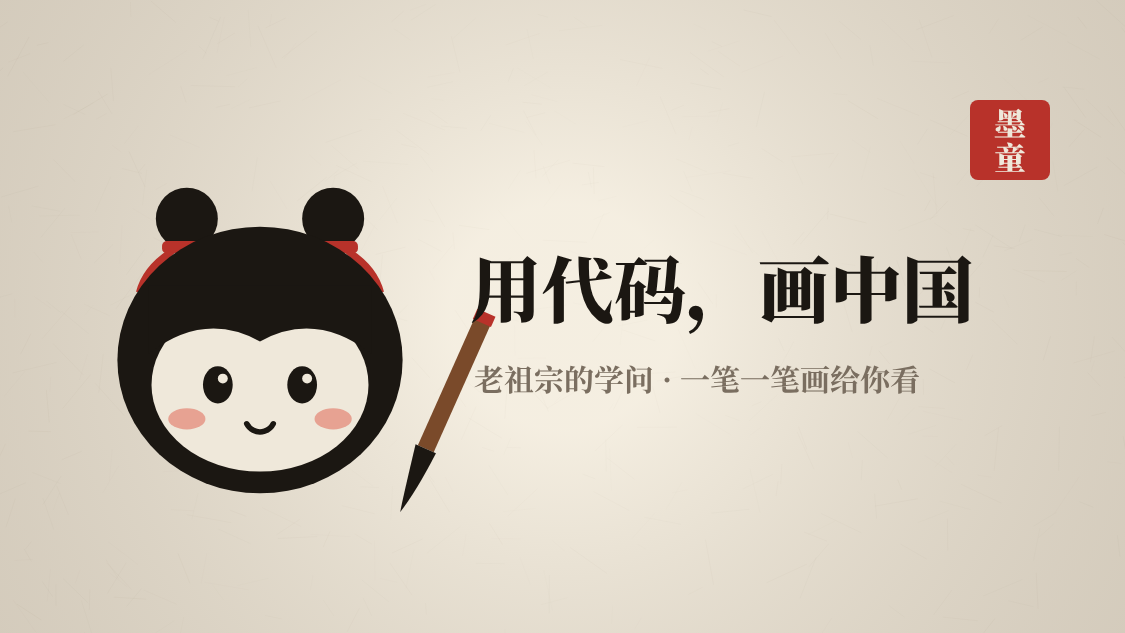
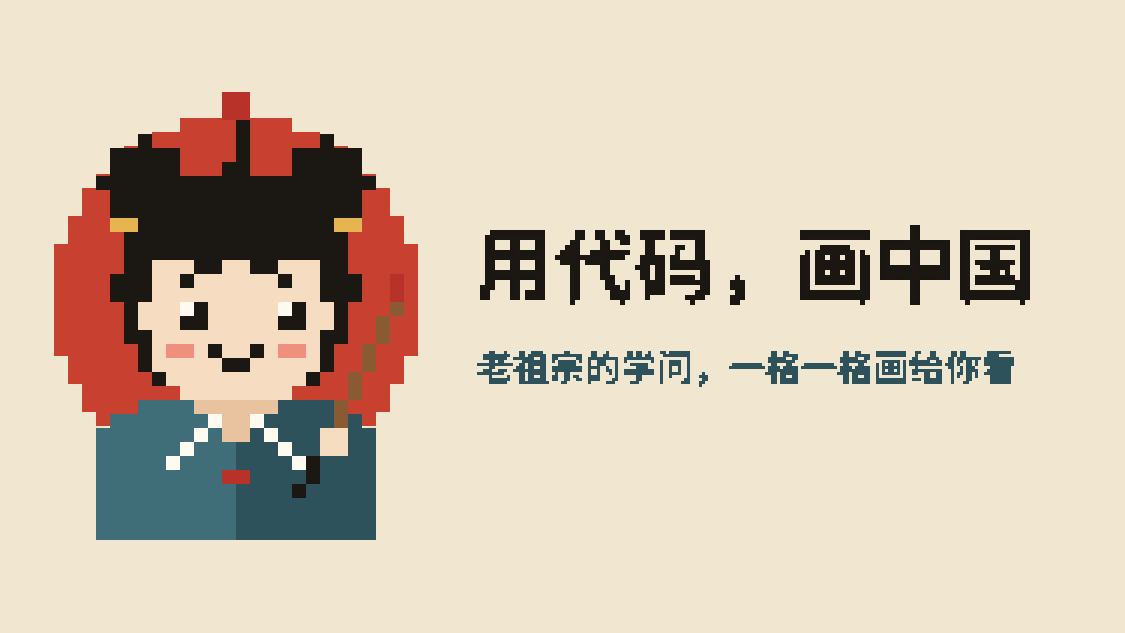
主页形象改为像素风墨童
Claude-Session: https://claude.ai/code/session_0123AfSiiAYaCKXmYhymKrjL

diff --git a/douyin-profile/pixel.html b/douyin-profile/pixel.html
@@ -1,0 +1,92 @@
+<!doctype html>
+<html><head><meta charset="utf-8">
+<style>html,body{margin:0;background:#000}canvas{display:block}</style>
+</head><body>
+<canvas id="a" width="1080" height="1080"></canvas>
+<canvas id="b" width="1125" height="633"></canvas>
+<script>
+// 像素风墨童：32×32 的像素格，逐格上色后按整数倍放大（不抗锯齿）
+// 头像 1080×1080；主页背景 1125×633
+const P = {
+  bg: '#f1e6cf', sun: '#c8402f', ink: '#1b1712', skin: '#f6dcc0', skin2: '#e9c3a0', cheek: '#ef8f7e',
+  white: '#fffaf0', robe: '#3f6d78', robe2: '#2e525b', gold: '#e6b450', wood: '#8a5a32', red: '#b8322a',
+};
+const N = 32;
+function sprite() {
+  const g = Array.from({ length: N }, () => Array(N).fill(null));
+  const set = (x, y, c) => { if (x >= 0 && y >= 0 && x < N && y < N) g[y][x] = c; };
+  const circle = (cx, cy, r, c, cond = () => true) => {
+    for (let y = 0; y < N; y++) for (let x = 0; x < N; x++)
+      if (Math.hypot(x + .5 - cx, y + .5 - cy) <= r && cond(x, y)) set(x, y, c);
+  };
+  // 身体（青色袍子，圆肩）
+  for (let y = 22; y < N; y++) for (let x = 6; x < 26; x++) {
+    const shoulder = y < 25 ? Math.abs(x + .5 - 16) <= 7 + (y - 22) * 1.6 : true;
+    if (shoulder) set(x, y, x < 16 ? P.robe : P.robe2);
+  }
+  // 白色交领
+  for (let y = 22; y < 27; y++) { set(15 - (y - 22), y, P.white); set(16 + (y - 22), y, P.white); }
+  for (let y = 22; y < 25; y++) for (let x = 14; x < 18; x++) if (Math.abs(x + .5 - 16) < 2 - (y - 22) * .5) set(x, y, P.skin2);
+  set(15, 27, P.red); set(16, 27, P.red);                               // 红绳结
+  // 两个发髻 + 金色发带
+  circle(9.5, 6.5, 3, P.ink); circle(22.5, 6.5, 3, P.ink);
+  for (const x of [7, 8, 9, 10, 11, 12]) set(x, 9, P.gold);
+  for (const x of [19, 20, 21, 22, 23, 24]) set(x, 9, P.gold);
+  // 小天线（AI 的记号），顶上一颗红珠
+  for (let y = 2; y < 6; y++) set(16, y, P.ink);
+  set(16, 1, P.red); set(15, 1, P.red); set(16, 0, P.red); set(15, 0, P.red);
+  // 头发和脸
+  circle(16, 14, 8.6, P.ink);
+  circle(16, 16, 6.6, P.skin, (x, y) => y >= 12);
+  for (const [x, y] of [[13, 12], [14, 12], [17, 12], [18, 12], [12, 13], [19, 13]]) set(x, y, P.ink);  // 刘海锯齿
+  // 眼睛（2×2，左上一点高光）
+  for (const ex of [12, 19]) { set(ex, 15, P.white); set(ex + 1, 15, P.ink); set(ex, 16, P.ink); set(ex + 1, 16, P.ink); }
+  // 腮红、笑
+  set(11, 18, P.cheek); set(12, 18, P.cheek); set(19, 18, P.cheek); set(20, 18, P.cheek);
+  set(14, 18, P.ink); set(15, 19, P.ink); set(16, 19, P.ink); set(17, 18, P.ink);
+  for (let x = 13; x < 19; x++) set(x, 22, P.skin2);                   // 下巴阴影
+  // 毛笔：右手斜握
+  for (let i = 0; i < 12; i++) set(27 - Math.floor(i * .5), 14 + i, P.wood);
+  set(27, 14, P.red); set(27, 13, P.red);
+  set(21, 26, P.ink); set(21, 27, P.ink); set(20, 28, P.ink);
+  set(22, 24, P.skin); set(23, 24, P.skin); set(22, 25, P.skin); set(23, 25, P.skin);   // 手
+  return g;
+}
+function drawSprite(c, g, x0, y0, s) {
+  for (let y = 0; y < N; y++) for (let x = 0; x < N; x++)
+    if (g[y][x]) { c.fillStyle = g[y][x]; c.fillRect(x0 + x * s, y0 + y * s, s, s); }
+}
+function pixelSun(c, cx, cy, r, s) {                                    // 像素太阳（背景圆）
+  c.fillStyle = P.sun;
+  for (let y = -r; y < r; y++) for (let x = -r; x < r; x++)
+    if (Math.hypot(x + .5, y + .5) <= r) c.fillRect(cx + x * s, cy + y * s, s, s);
+}
+// 像素字：先在小画布上写，二值化，再整数倍放大
+function pixelText(c, str, x, y, px, scale, color) {
+  const t = document.createElement('canvas'), tc = t.getContext('2d');
+  tc.font = `700 ${px}px "Noto Sans SC"`;
+  t.width = Math.ceil(tc.measureText(str).width) + 2; t.height = px + 4;
+  tc.font = `700 ${px}px "Noto Sans SC"`; tc.fillStyle = color; tc.textBaseline = 'top'; tc.fillText(str, 1, 1);
+  const d = tc.getImageData(0, 0, t.width, t.height);
+  for (let i = 3; i < d.data.length; i += 4) d.data[i] = d.data[i] > 110 ? 255 : 0;
+  tc.putImageData(d, 0, 0);
+  c.imageSmoothingEnabled = false; c.drawImage(t, x, y, t.width * scale, t.height * scale);
+}
+
+window.ready = (async () => {
+  document.fonts.add(await new FontFace('Noto Sans SC', 'url(../vibe-kit/fonts/NotoSansSC-700.ttf)', { weight: '700' }).load());
+  const g = sprite();
+  const a = document.getElementById('a').getContext('2d');
+  a.fillStyle = P.bg; a.fillRect(0, 0, 1080, 1080);
+  pixelSun(a, 540, 470, 13, 32);
+  drawSprite(a, g, 28, 28, 32);
+  const b = document.getElementById('b').getContext('2d');
+  b.fillStyle = P.bg; b.fillRect(0, 0, 1125, 633);
+  pixelSun(b, 236, 300, 13, 14);
+  drawSprite(b, g, 12, 92, 14);
+  pixelText(b, '用代码，画中国', 470, 220, 16, 5, P.ink);
+  pixelText(b, '老祖宗的学问，一格一格画给你看', 474, 345, 12, 3, P.robe2);
+  return true;
+})();
+</script>
+</body></html>
